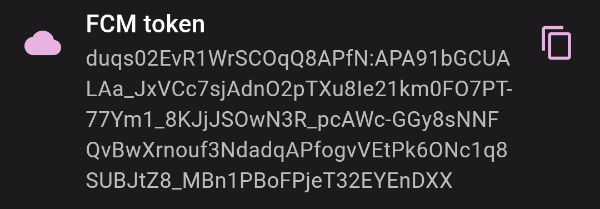
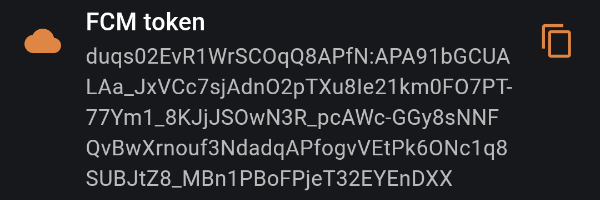
Update color scheme

diff --git a/packages/debug_bricks_device_info/example/lib/app_color_schemes.dart b/packages/debug_bricks_device_info/example/lib/app_color_schemes.dart
@@ -2,64 +2,66 @@ import 'package:flutter/material.dart';
 
 const lightColorScheme = ColorScheme(
   brightness: Brightness.light,
-  primary: Color(0xFF9E308B),
+  primary: Color(0xFF4175E2),
   onPrimary: Color(0xFFFFFFFF),
-  primaryContainer: Color(0xFFFFD7F0),
-  onPrimaryContainer: Color(0xFF3A0032),
-  secondary: Color(0xFF6F5767),
+  primaryContainer: Color(0xFFDAE2FF),
+  onPrimaryContainer: Color(0xFF001946),
+  secondary: Color(0xFF9A4600),
   onSecondary: Color(0xFFFFFFFF),
-  secondaryContainer: Color(0xFFF9DAEC),
-  onSecondaryContainer: Color(0xFF281623),
-  tertiary: Color(0xFF9C432E),
+  secondaryContainer: Color(0xFFFFDBC9),
+  onSecondaryContainer: Color(0xFF321200),
+  tertiary: Color(0xFFA518A3),
   onTertiary: Color(0xFFFFFFFF),
-  tertiaryContainer: Color(0xFFFFDAD2),
-  onTertiaryContainer: Color(0xFF3D0700),
+  tertiaryContainer: Color(0xFFFFD7F5),
+  onTertiaryContainer: Color(0xFF380038),
   error: Color(0xFFBA1A1A),
   errorContainer: Color(0xFFFFDAD6),
   onError: Color(0xFFFFFFFF),
   onErrorContainer: Color(0xFF410002),
-  background: Color(0xFFFFFBFF),
-  onBackground: Color(0xFF1F1A1D),
-  surface: Color(0xFFFFFBFF),
-  onSurface: Color(0xFF1F1A1D),
-  surfaceVariant: Color(0xFFEFDEE6),
-  onSurfaceVariant: Color(0xFF4F444A),
-  outline: Color(0xFF81737B),
-  onInverseSurface: Color(0xFFF8EEF1),
-  inverseSurface: Color(0xFF342F32),
-  inversePrimary: Color(0xFFFFACE7),
+  background: Color(0xFFFDFBFF),
+  onBackground: Color(0xFF001C3B),
+  surface: Color(0xFFFDFBFF),
+  onSurface: Color(0xFF001C3B),
+  surfaceVariant: Color(0xFFE1E2EC),
+  onSurfaceVariant: Color(0xFF44464F),
+  outline: Color(0xFF757780),
+  onInverseSurface: Color(0xFFEBF1FF),
+  inverseSurface: Color(0xFF003060),
+  inversePrimary: Color(0xFFB1C5FF),
   shadow: Color(0xFF000000),
-  surfaceTint: Color(0xFF9E308B),
+  surfaceTint: Color(0xFF4175E2),
 );
+
 
 const darkColorScheme = ColorScheme(
   brightness: Brightness.dark,
-  primary: Color(0xFFFFACE7),
-  onPrimary: Color(0xFF5E0052),
-  primaryContainer: Color(0xFF811171),
-  onPrimaryContainer: Color(0xFFFFD7F0),
-  secondary: Color(0xFFDCBED0),
-  onSecondary: Color(0xFF3E2A38),
-  secondaryContainer: Color(0xFF56404F),
-  onSecondaryContainer: Color(0xFFF9DAEC),
-  tertiary: Color(0xFFFFB4A3),
-  onTertiary: Color(0xFF5E1606),
-  tertiaryContainer: Color(0xFF7D2C19),
-  onTertiaryContainer: Color(0xFFFFDAD2),
+  primary: Color(0xFFFF7900),
+  onPrimary: Color(0xFF522300),
+  primaryContainer: Color(0xFF753400),
+  onPrimaryContainer: Color(0xFFFFDBC9),
+  secondary: Color(0xFFFFAAF3),
+  onSecondary: Color(0xFF5B005B),
+  secondaryContainer: Color(0xFF810081),
+  onSecondaryContainer: Color(0xFFFFD7F5),
+  tertiary: Color(0xFFCCC992),
+  onTertiary: Color(0xFF333209),
+  tertiaryContainer: Color(0xFF4A481D),
+  onTertiaryContainer: Color(0xFFE9E5AC),
   error: Color(0xFFFFB4AB),
   errorContainer: Color(0xFF93000A),
   onError: Color(0xFF690005),
   onErrorContainer: Color(0xFFFFDAD6),
-  background: Color(0xFF1F1A1D),
-  onBackground: Color(0xFFEAE0E3),
-  surface: Color(0xFF1F1A1D),
-  onSurface: Color(0xFFEAE0E3),
-  surfaceVariant: Color(0xFF4F444A),
-  onSurfaceVariant: Color(0xFFD2C2CA),
-  outline: Color(0xFF9B8D94),
-  onInverseSurface: Color(0xFF1F1A1D),
-  inverseSurface: Color(0xFFEAE0E3),
-  inversePrimary: Color(0xFF9E308B),
+  background: Color(0xFF16181C),
+  onBackground: Color(0xFFFFB68C),
+  surface: Color(0xFF321200),
+  onSurface: Color(0xFFFFB68C),
+  surfaceVariant: Color(0xFF52443C),
+  onSurfaceVariant: Color(0xFFD7C2B8),
+  outline: Color(0xFF9F8D84),
+  onInverseSurface: Color(0xFF321200),
+  inverseSurface: Color(0xFFFFB68C),
+  inversePrimary: Color(0xFF9A4600),
   shadow: Color(0xFF000000),
-  surfaceTint: Color(0xFFFFACE7),
+  surfaceTint: Color(0xFFFF7900),
 );
+

diff --git a/packages/debug_bricks_easy_localization/example/lib/app_color_schemes.dart b/packages/debug_bricks_easy_localization/example/lib/app_color_schemes.dart
@@ -2,64 +2,66 @@ import 'package:flutter/material.dart';
 
 const lightColorScheme = ColorScheme(
   brightness: Brightness.light,
-  primary: Color(0xFF9E308B),
+  primary: Color(0xFF4175E2),
   onPrimary: Color(0xFFFFFFFF),
-  primaryContainer: Color(0xFFFFD7F0),
-  onPrimaryContainer: Color(0xFF3A0032),
-  secondary: Color(0xFF6F5767),
+  primaryContainer: Color(0xFFDAE2FF),
+  onPrimaryContainer: Color(0xFF001946),
+  secondary: Color(0xFF9A4600),
   onSecondary: Color(0xFFFFFFFF),
-  secondaryContainer: Color(0xFFF9DAEC),
-  onSecondaryContainer: Color(0xFF281623),
-  tertiary: Color(0xFF9C432E),
+  secondaryContainer: Color(0xFFFFDBC9),
+  onSecondaryContainer: Color(0xFF321200),
+  tertiary: Color(0xFFA518A3),
   onTertiary: Color(0xFFFFFFFF),
-  tertiaryContainer: Color(0xFFFFDAD2),
-  onTertiaryContainer: Color(0xFF3D0700),
+  tertiaryContainer: Color(0xFFFFD7F5),
+  onTertiaryContainer: Color(0xFF380038),
   error: Color(0xFFBA1A1A),
   errorContainer: Color(0xFFFFDAD6),
   onError: Color(0xFFFFFFFF),
   onErrorContainer: Color(0xFF410002),
-  background: Color(0xFFFFFBFF),
-  onBackground: Color(0xFF1F1A1D),
-  surface: Color(0xFFFFFBFF),
-  onSurface: Color(0xFF1F1A1D),
-  surfaceVariant: Color(0xFFEFDEE6),
-  onSurfaceVariant: Color(0xFF4F444A),
-  outline: Color(0xFF81737B),
-  onInverseSurface: Color(0xFFF8EEF1),
-  inverseSurface: Color(0xFF342F32),
-  inversePrimary: Color(0xFFFFACE7),
+  background: Color(0xFFFDFBFF),
+  onBackground: Color(0xFF001C3B),
+  surface: Color(0xFFFDFBFF),
+  onSurface: Color(0xFF001C3B),
+  surfaceVariant: Color(0xFFE1E2EC),
+  onSurfaceVariant: Color(0xFF44464F),
+  outline: Color(0xFF757780),
+  onInverseSurface: Color(0xFFEBF1FF),
+  inverseSurface: Color(0xFF003060),
+  inversePrimary: Color(0xFFB1C5FF),
   shadow: Color(0xFF000000),
-  surfaceTint: Color(0xFF9E308B),
+  surfaceTint: Color(0xFF4175E2),
 );
+
 
 const darkColorScheme = ColorScheme(
   brightness: Brightness.dark,
-  primary: Color(0xFFFFACE7),
-  onPrimary: Color(0xFF5E0052),
-  primaryContainer: Color(0xFF811171),
-  onPrimaryContainer: Color(0xFFFFD7F0),
-  secondary: Color(0xFFDCBED0),
-  onSecondary: Color(0xFF3E2A38),
-  secondaryContainer: Color(0xFF56404F),
-  onSecondaryContainer: Color(0xFFF9DAEC),
-  tertiary: Color(0xFFFFB4A3),
-  onTertiary: Color(0xFF5E1606),
-  tertiaryContainer: Color(0xFF7D2C19),
-  onTertiaryContainer: Color(0xFFFFDAD2),
+  primary: Color(0xFFFF7900),
+  onPrimary: Color(0xFF522300),
+  primaryContainer: Color(0xFF753400),
+  onPrimaryContainer: Color(0xFFFFDBC9),
+  secondary: Color(0xFFFFAAF3),
+  onSecondary: Color(0xFF5B005B),
+  secondaryContainer: Color(0xFF810081),
+  onSecondaryContainer: Color(0xFFFFD7F5),
+  tertiary: Color(0xFFCCC992),
+  onTertiary: Color(0xFF333209),
+  tertiaryContainer: Color(0xFF4A481D),
+  onTertiaryContainer: Color(0xFFE9E5AC),
   error: Color(0xFFFFB4AB),
   errorContainer: Color(0xFF93000A),
   onError: Color(0xFF690005),
   onErrorContainer: Color(0xFFFFDAD6),
-  background: Color(0xFF1F1A1D),
-  onBackground: Color(0xFFEAE0E3),
-  surface: Color(0xFF1F1A1D),
-  onSurface: Color(0xFFEAE0E3),
-  surfaceVariant: Color(0xFF4F444A),
-  onSurfaceVariant: Color(0xFFD2C2CA),
-  outline: Color(0xFF9B8D94),
-  onInverseSurface: Color(0xFF1F1A1D),
-  inverseSurface: Color(0xFFEAE0E3),
-  inversePrimary: Color(0xFF9E308B),
+  background: Color(0xFF16181C),
+  onBackground: Color(0xFFFFB68C),
+  surface: Color(0xFF321200),
+  onSurface: Color(0xFFFFB68C),
+  surfaceVariant: Color(0xFF52443C),
+  onSurfaceVariant: Color(0xFFD7C2B8),
+  outline: Color(0xFF9F8D84),
+  onInverseSurface: Color(0xFF321200),
+  inverseSurface: Color(0xFFFFB68C),
+  inversePrimary: Color(0xFF9A4600),
   shadow: Color(0xFF000000),
-  surfaceTint: Color(0xFFFFACE7),
+  surfaceTint: Color(0xFFFF7900),
 );
+

diff --git a/packages/debug_bricks_fcm_token/example/lib/app_color_schemes.dart b/packages/debug_bricks_fcm_token/example/lib/app_color_schemes.dart
@@ -2,64 +2,66 @@ import 'package:flutter/material.dart';
 
 const lightColorScheme = ColorScheme(
   brightness: Brightness.light,
-  primary: Color(0xFF9E308B),
+  primary: Color(0xFF4175E2),
   onPrimary: Color(0xFFFFFFFF),
-  primaryContainer: Color(0xFFFFD7F0),
-  onPrimaryContainer: Color(0xFF3A0032),
-  secondary: Color(0xFF6F5767),
+  primaryContainer: Color(0xFFDAE2FF),
+  onPrimaryContainer: Color(0xFF001946),
+  secondary: Color(0xFF9A4600),
   onSecondary: Color(0xFFFFFFFF),
-  secondaryContainer: Color(0xFFF9DAEC),
-  onSecondaryContainer: Color(0xFF281623),
-  tertiary: Color(0xFF9C432E),
+  secondaryContainer: Color(0xFFFFDBC9),
+  onSecondaryContainer: Color(0xFF321200),
+  tertiary: Color(0xFFA518A3),
   onTertiary: Color(0xFFFFFFFF),
-  tertiaryContainer: Color(0xFFFFDAD2),
-  onTertiaryContainer: Color(0xFF3D0700),
+  tertiaryContainer: Color(0xFFFFD7F5),
+  onTertiaryContainer: Color(0xFF380038),
   error: Color(0xFFBA1A1A),
   errorContainer: Color(0xFFFFDAD6),
   onError: Color(0xFFFFFFFF),
   onErrorContainer: Color(0xFF410002),
-  background: Color(0xFFFFFBFF),
-  onBackground: Color(0xFF1F1A1D),
-  surface: Color(0xFFFFFBFF),
-  onSurface: Color(0xFF1F1A1D),
-  surfaceVariant: Color(0xFFEFDEE6),
-  onSurfaceVariant: Color(0xFF4F444A),
-  outline: Color(0xFF81737B),
-  onInverseSurface: Color(0xFFF8EEF1),
-  inverseSurface: Color(0xFF342F32),
-  inversePrimary: Color(0xFFFFACE7),
+  background: Color(0xFFFDFBFF),
+  onBackground: Color(0xFF001C3B),
+  surface: Color(0xFFFDFBFF),
+  onSurface: Color(0xFF001C3B),
+  surfaceVariant: Color(0xFFE1E2EC),
+  onSurfaceVariant: Color(0xFF44464F),
+  outline: Color(0xFF757780),
+  onInverseSurface: Color(0xFFEBF1FF),
+  inverseSurface: Color(0xFF003060),
+  inversePrimary: Color(0xFFB1C5FF),
   shadow: Color(0xFF000000),
-  surfaceTint: Color(0xFF9E308B),
+  surfaceTint: Color(0xFF4175E2),
 );
+
 
 const darkColorScheme = ColorScheme(
   brightness: Brightness.dark,
-  primary: Color(0xFFFFACE7),
-  onPrimary: Color(0xFF5E0052),
-  primaryContainer: Color(0xFF811171),
-  onPrimaryContainer: Color(0xFFFFD7F0),
-  secondary: Color(0xFFDCBED0),
-  onSecondary: Color(0xFF3E2A38),
-  secondaryContainer: Color(0xFF56404F),
-  onSecondaryContainer: Color(0xFFF9DAEC),
-  tertiary: Color(0xFFFFB4A3),
-  onTertiary: Color(0xFF5E1606),
-  tertiaryContainer: Color(0xFF7D2C19),
-  onTertiaryContainer: Color(0xFFFFDAD2),
+  primary: Color(0xFFFF7900),
+  onPrimary: Color(0xFF522300),
+  primaryContainer: Color(0xFF753400),
+  onPrimaryContainer: Color(0xFFFFDBC9),
+  secondary: Color(0xFFFFAAF3),
+  onSecondary: Color(0xFF5B005B),
+  secondaryContainer: Color(0xFF810081),
+  onSecondaryContainer: Color(0xFFFFD7F5),
+  tertiary: Color(0xFFCCC992),
+  onTertiary: Color(0xFF333209),
+  tertiaryContainer: Color(0xFF4A481D),
+  onTertiaryContainer: Color(0xFFE9E5AC),
   error: Color(0xFFFFB4AB),
   errorContainer: Color(0xFF93000A),
   onError: Color(0xFF690005),
   onErrorContainer: Color(0xFFFFDAD6),
-  background: Color(0xFF1F1A1D),
-  onBackground: Color(0xFFEAE0E3),
-  surface: Color(0xFF1F1A1D),
-  onSurface: Color(0xFFEAE0E3),
-  surfaceVariant: Color(0xFF4F444A),
-  onSurfaceVariant: Color(0xFFD2C2CA),
-  outline: Color(0xFF9B8D94),
-  onInverseSurface: Color(0xFF1F1A1D),
-  inverseSurface: Color(0xFFEAE0E3),
-  inversePrimary: Color(0xFF9E308B),
+  background: Color(0xFF16181C),
+  onBackground: Color(0xFFFFB68C),
+  surface: Color(0xFF321200),
+  onSurface: Color(0xFFFFB68C),
+  surfaceVariant: Color(0xFF52443C),
+  onSurfaceVariant: Color(0xFFD7C2B8),
+  outline: Color(0xFF9F8D84),
+  onInverseSurface: Color(0xFF321200),
+  inverseSurface: Color(0xFFFFB68C),
+  inversePrimary: Color(0xFF9A4600),
   shadow: Color(0xFF000000),
-  surfaceTint: Color(0xFFFFACE7),
+  surfaceTint: Color(0xFFFF7900),
 );
+
